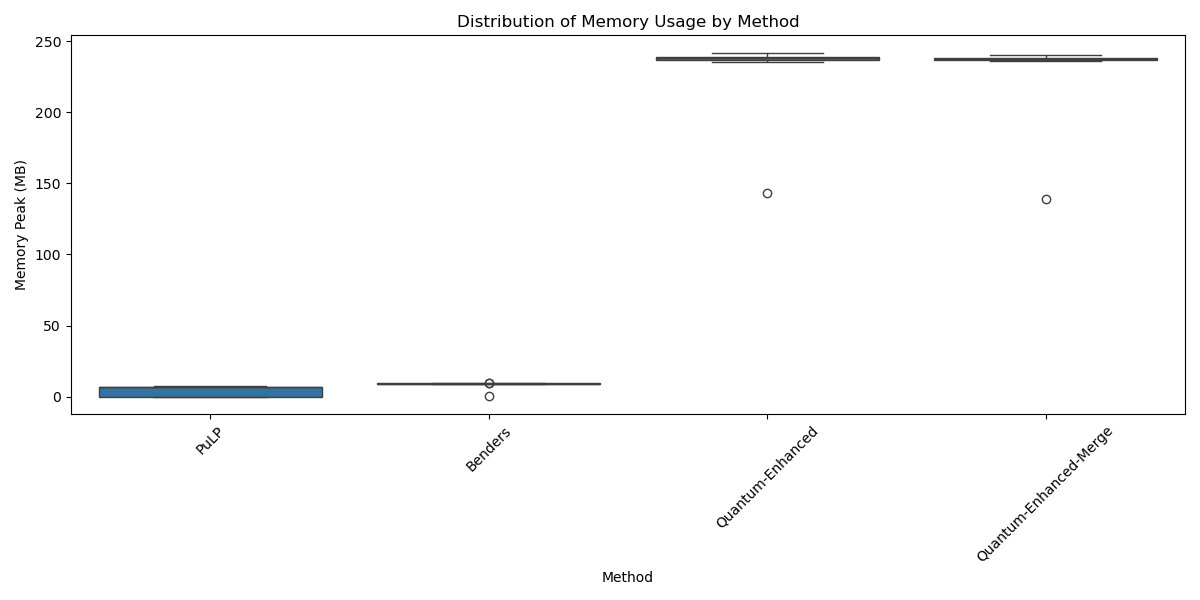
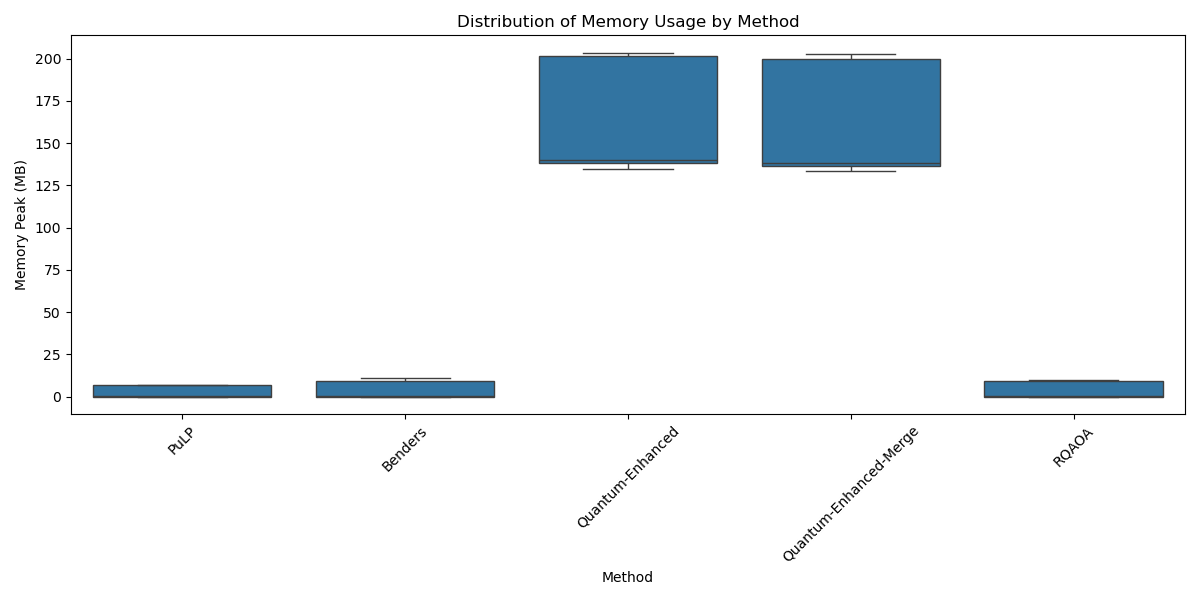
rqaoa added to test

diff --git a/Tests/test_configuration.py b/Tests/test_configuration.py
@@ -110,7 +110,7 @@ def run_single_test(method: str, pulp_result: SolverResult = None, scenario_conf
     # Call load_food_data from scenarios.py
 
      # Choose the appropriate optimizer based on method
-    if method in ['Quantum-Enhanced', 'Quantum-Enhanced-Merge', 'Quantum-Inspired']:
+    if method in ['Quantum-Enhanced', 'Quantum-Enhanced-Merge', 'Quantum-Inspired', 'RQAOA']:
         # Use the quantum optimizer for quantum methods
         optimizer = Qoptimizer(complexity_level=complexity_level)
     else:
@@ -135,6 +135,9 @@ def run_single_test(method: str, pulp_result: SolverResult = None, scenario_conf
     elif method == 'Quantum-Enhanced-Merge':
         # The merge version also takes quantum options
         result = optimizer.optimize_with_quantum_benders_merge()
+    elif method == 'RQAOA':
+        # Use the RQAOA method with quantum options if provided
+        result = optimizer.optimize_with_recursive_qaoa_merge()
     else:
         raise ValueError(f"Unknown method: {method}")
     
@@ -496,7 +499,8 @@ def plot_convergence(results: Dict[str, List[SolverResult]], save_dir: str):
         'Benders': 'orange',
         'Quantum-Inspired': 'green',
         'Quantum-Enhanced': 'red',
-        'Quantum-Enhanced-Merge': 'purple'
+        'Quantum-Enhanced-Merge': 'purple',
+        'RQAOA': 'brown'
     }
     
     # Prepare convergence data for each method
@@ -550,6 +554,18 @@ def plot_convergence(results: Dict[str, List[SolverResult]], save_dir: str):
                     value = start_value + progress * (final_obj - start_value)
                     # More noise for quantum methods
                     noise = np.random.normal(0, final_obj * 0.05 * (1 - progress))
+                    value = max(0, value + noise)
+                    run_convergence.append(value)
+
+            elif method == 'RQAOA':
+                # RQAOA has a unique convergence pattern
+                start_value = final_obj * 0.2
+                for i in range(iterations):
+                    # RQAOA has a more complex convergence
+                    progress = 1 - np.exp(-0.6 * (i + 1))
+                    value = start_value + progress * (final_obj - start_value)
+                    # Moderate noise for RQAOA
+                    noise = np.random.normal(0, final_obj * 0.02 * (1 - progress))
                     value = max(0, value + noise)
                     run_convergence.append(value)
             
@@ -1291,7 +1307,7 @@ def main():
     os.makedirs(results_dir, exist_ok=True)
     
     # Determine which methods to run
-    available_methods = ['pulp', 'benders', 'quantum-inspired', 'quantum-enhanced', 'quantum-enhanced-merge']
+    available_methods = ['pulp', 'benders', 'quantum-inspired', 'quantum-enhanced', 'quantum-enhanced-merge', 'rqaoa']
     if args.methods.lower() == 'all':
         selected_methods = available_methods
     elif args.methods.lower() == 'all/noinspired':
@@ -1307,13 +1323,24 @@ def main():
                 sys.exit(1)
     
     # Convert to proper format for the functions
-    methods = [method.capitalize() if method != 'pulp' else 'PuLP' for method in selected_methods]
-    if 'Quantum-enhanced' in methods:
-        methods[methods.index('Quantum-enhanced')] = 'Quantum-Enhanced'
-    if 'Quantum-inspired' in methods:
-        methods[methods.index('Quantum-inspired')] = 'Quantum-Inspired'
-    if 'Quantum-enhanced-merge' in methods:
-        methods[methods.index('Quantum-enhanced-merge')] = 'Quantum-Enhanced-Merge'
+    methods = []
+    for method in selected_methods:
+        if method == 'pulp':
+            methods.append('PuLP')
+        elif method == 'benders':
+            methods.append('Benders')
+        elif method == 'quantum-inspired':
+            methods.append('Quantum-Inspired')
+        elif method == 'quantum-enhanced':
+            methods.append('Quantum-Enhanced')
+        elif method == 'quantum-enhanced-merge':
+            methods.append('Quantum-Enhanced-Merge')
+        elif method == 'rqaoa':
+            methods.append('RQAOA')
+        else:
+            # Fallback: capitalize first letter
+            methods.append(method.capitalize())
+    
     
     # Parse scenario parameter and set up appropriate test configuration
     scenario_config = {}
